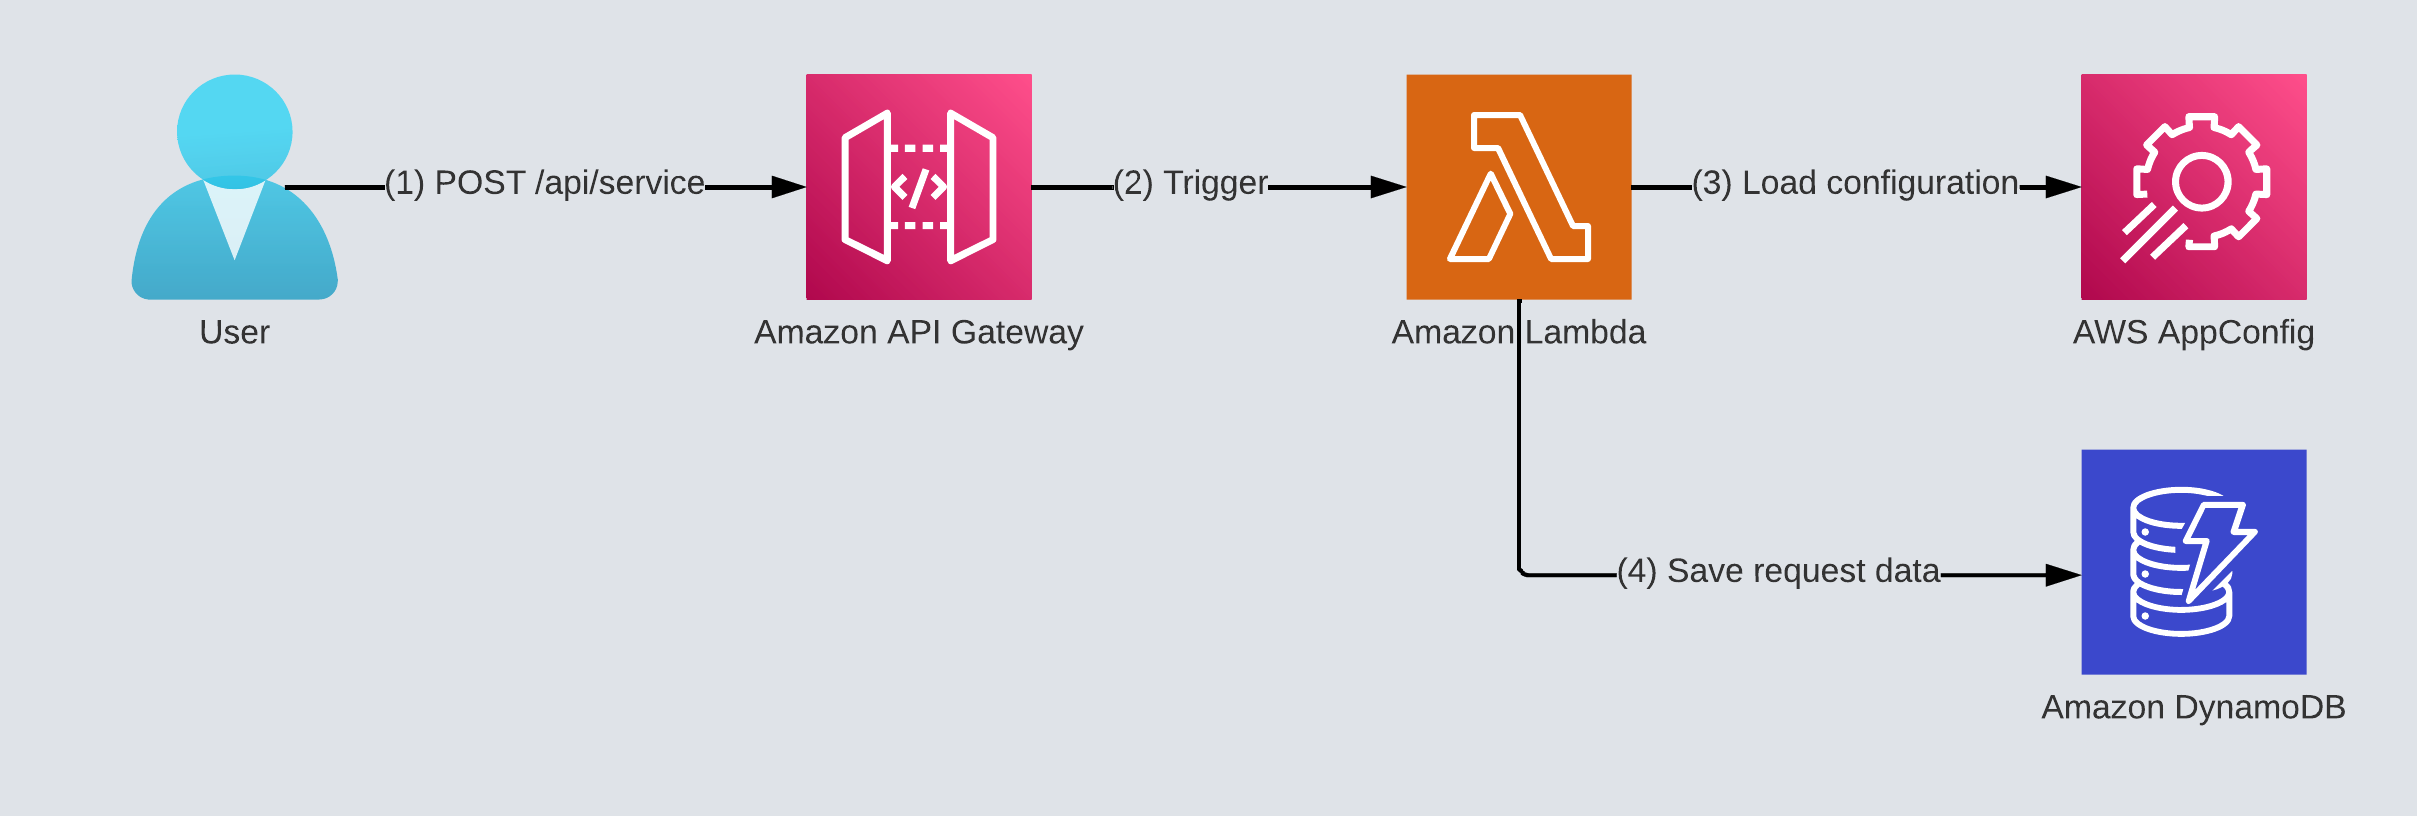
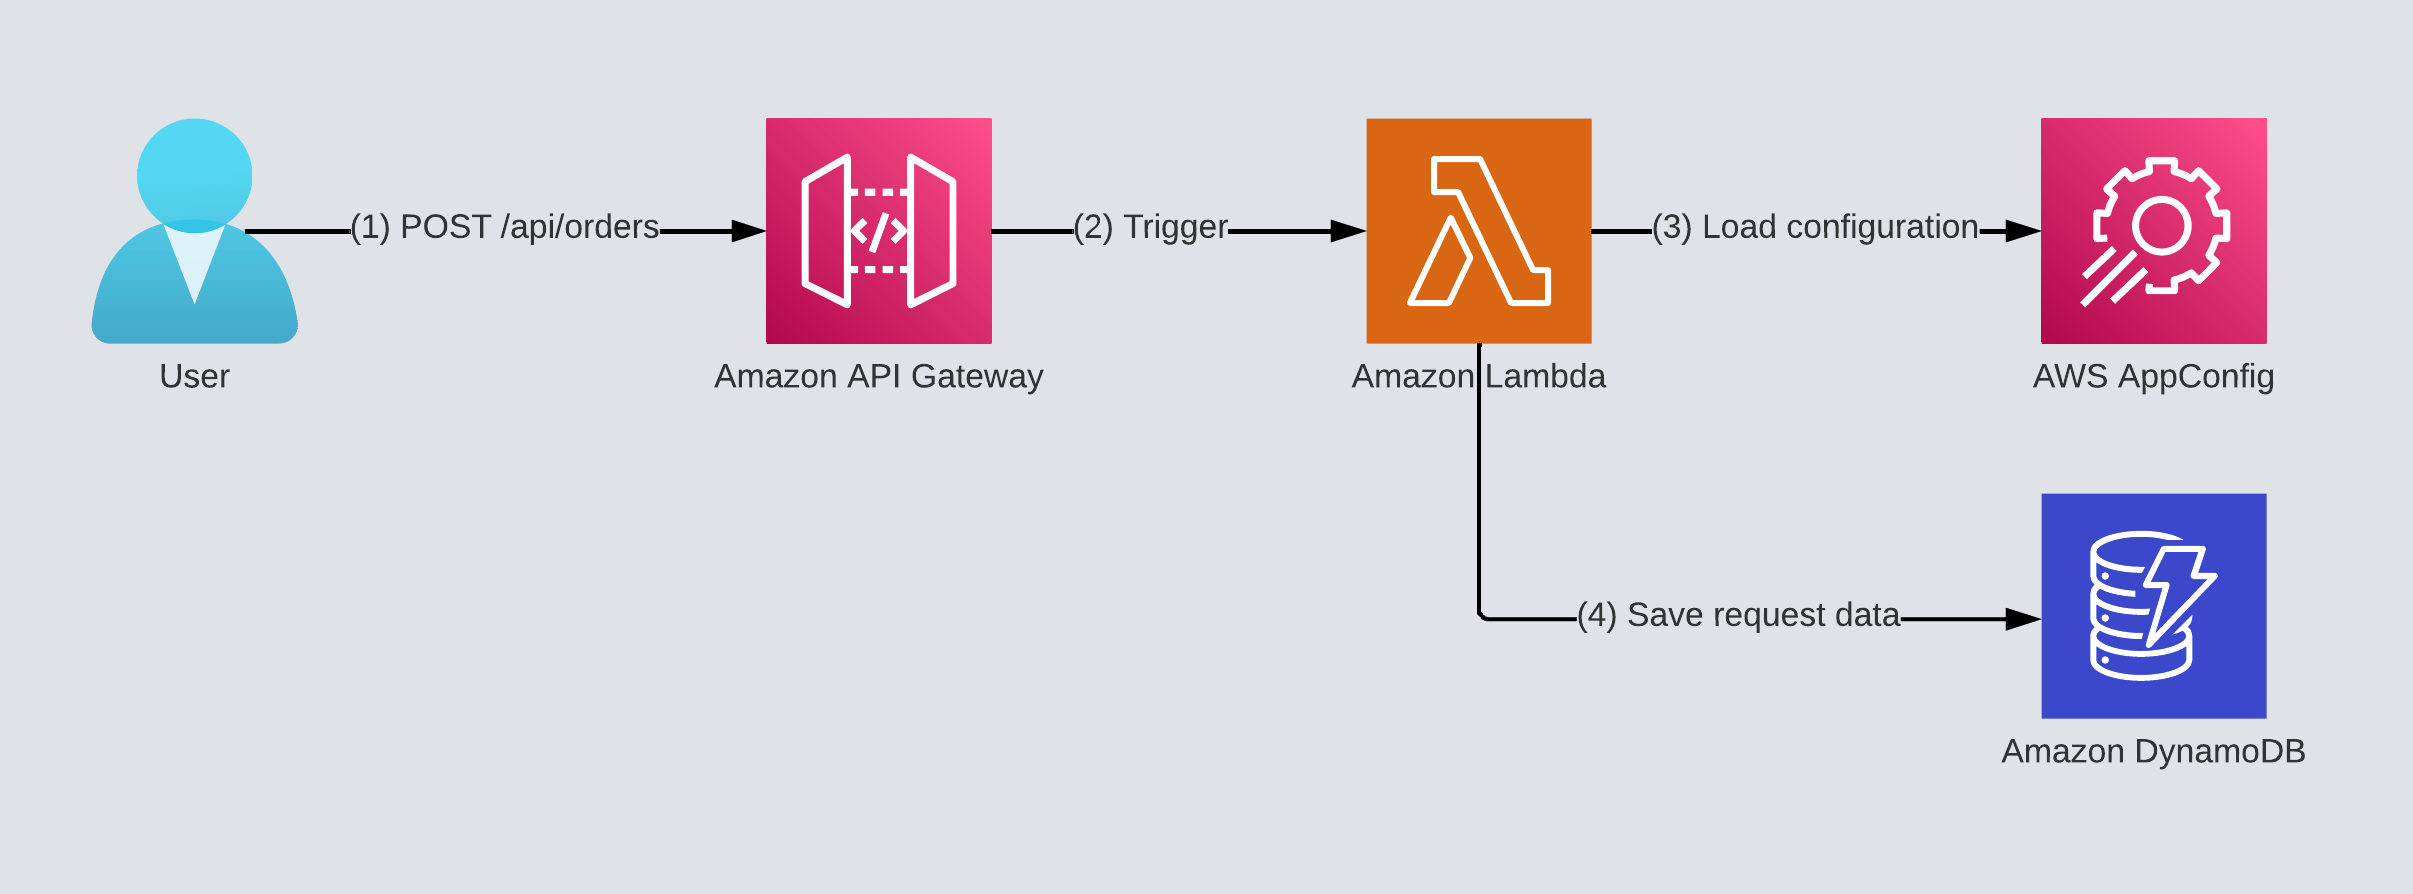
misc cahgnes

Changed region(s): [[0.0311, 0.0919, 0.9635, 0.4596], [0.6216, 0.5515, 0.9635, 0.8885]]

diff --git a/tests/integration/test_create_order.py b/tests/integration/test_create_order.py
@@ -15,7 +15,7 @@ from cdk.my_service.service_stack.constants import (
     SERVICE_NAME,
     TABLE_NAME_OUTPUT,
 )
-from service.handlers.my_handler import my_handler
+from service.handlers.create_order import create_order
 from service.handlers.schemas.input import Input
 from tests.utils import generate_api_gw_event, generate_context, get_stack_output
 
@@ -71,7 +71,7 @@ def test_handler_200_ok(mocker):
     mock_dynamic_configuration(mocker, MOCKED_SCHEMA)
     customer_name = 'RanTheBuilder'
     body = Input(customer_name=customer_name, order_item_count=5, tier='premium')
-    response = my_handler(generate_api_gw_event(body.dict()), generate_context())
+    response = create_order(generate_api_gw_event(body.dict()), generate_context())
     assert response['statusCode'] == HTTPStatus.OK
     body_dict = json.loads(response['body'])
     assert body_dict['order_id']
@@ -87,13 +87,13 @@ def test_internal_server_error(mocker):
     db_mock = mocker.patch('service.logic.handle_create_request._get_db_handler')
     db_mock.side_effect = db_mock_function
     body = Input(customer_name='RanTheBuilder', order_item_count=5, tier='premium')
-    response = my_handler(generate_api_gw_event(body.dict()), generate_context())
+    response = create_order(generate_api_gw_event(body.dict()), generate_context())
     assert response['statusCode'] == HTTPStatus.INTERNAL_SERVER_ERROR
 
 
 def test_handler_bad_request(mocker):
     mock_dynamic_configuration(mocker, MOCKED_SCHEMA)
-    response = my_handler(generate_api_gw_event({'order_item_count': 5}), generate_context())
+    response = create_order(generate_api_gw_event({'order_item_count': 5}), generate_context())
     assert response['statusCode'] == HTTPStatus.BAD_REQUEST
     body_dict = json.loads(response['body'])
     assert body_dict == {}
@@ -101,7 +101,7 @@ def test_handler_bad_request(mocker):
 
 def test_handler_failed_appconfig_fetch(mocker):
     mock_exception_dynamic_configuration(mocker)
-    response = my_handler(generate_api_gw_event({'order_item_count': 5}), generate_context())
+    response = create_order(generate_api_gw_event({'order_item_count': 5}), generate_context())
     assert response['statusCode'] == HTTPStatus.INTERNAL_SERVER_ERROR
     body_dict = json.loads(response['body'])
     assert body_dict == {}

diff --git a/service/handlers/create_order.py b/service/handlers/create_order.py
@@ -22,9 +22,8 @@ from service.schemas.output import Output
 @init_environment_variables(model=MyHandlerEnvVars)
 @metrics.log_metrics
 @tracer.capture_lambda_handler(capture_response=False)
-def my_handler(event: Dict[str, Any], context: LambdaContext) -> Dict[str, Any]:
+def create_order(event: Dict[str, Any], context: LambdaContext) -> Dict[str, Any]:
     logger.set_correlation_id(context.aws_request_id)
-    logger.info('my_handler is called, calling inner_function_example')
 
     env_vars: MyHandlerEnvVars = get_environment_variables(model=MyHandlerEnvVars)
     logger.debug('environment variables', extra=env_vars.dict())
@@ -39,7 +38,7 @@ def my_handler(event: Dict[str, Any], context: LambdaContext) -> Dict[str, Any]:
     try:
         # we want to extract and parse the HTTP body from the api gw envelope
         input: Input = parse(event=event, model=Input, envelope=ApiGatewayEnvelope)
-        logger.info('got create request', extra={'order_item_count': input.order_item_count})
+        logger.info('got create order request', extra={'order_item_count': input.order_item_count})
     except (ValidationError, TypeError) as exc:
         logger.error('event failed input validation', extra={'error': str(exc)})
         return build_response(http_status=HTTPStatus.BAD_REQUEST, body={})
@@ -51,4 +50,5 @@ def my_handler(event: Dict[str, Any], context: LambdaContext) -> Dict[str, Any]:
     except InternalServerException:
         return build_response(http_status=HTTPStatus.INTERNAL_SERVER_ERROR, body={})
 
+    logger.info('finished handling create order request')
     return build_response(http_status=HTTPStatus.OK, body=response.dict())

diff --git a/cdk/my_service/service_stack/service_construct.py b/cdk/my_service/service_stack/service_construct.py
@@ -39,7 +39,7 @@ class ApiConstruct(Construct):
             self,
             'service-rest-api',
             rest_api_name='Service Rest API',
-            description='This service handles /api/service requests',
+            description='This service handles /api/orders requests',
             deploy_options=aws_apigateway.StageOptions(throttling_rate_limit=2, throttling_burst_limit=10),
         )
 
@@ -84,7 +84,7 @@ class ApiConstruct(Construct):
             'ServicePost',
             runtime=_lambda.Runtime.PYTHON_3_9,
             code=_lambda.Code.from_asset(constants.BUILD_FOLDER),
-            handler='service.handlers.my_handler.my_handler',
+            handler='service.handlers.create_order.create_order',
             environment={
                 constants.POWERTOOLS_SERVICE_NAME: constants.SERVICE_NAME,  # for logger, tracer and metrics
                 constants.POWER_TOOLS_LOG_LEVEL: 'DEBUG',  # for logger
@@ -105,5 +105,5 @@ class ApiConstruct(Construct):
             log_retention=aws_logs.RetentionDays.ONE_DAY,
         )
 
-        # POST /api/service/
+        # POST /api/orders/
         api_name.add_method(http_method='POST', integration=aws_apigateway.LambdaIntegration(handler=lambda_function))

diff --git a/docs/examples/best_practices/dynamic_configuration/lambda_cdk.py b/docs/examples/best_practices/dynamic_configuration/lambda_cdk.py
@@ -28,7 +28,7 @@ def _build_lambda_function(self, api_name: aws_apigateway.Resource, role: iam.Ro
         'ServicePost',
         runtime=_lambda.Runtime.PYTHON_3_8,
         code=_lambda.Code.from_asset(constants.BUILD_FOLDER),
-        handler='service.handlers.my_handler.my_handler',
+        handler='service.handlers.create_order.create_order',
         environment={
             constants.POWERTOOLS_SERVICE_NAME: constants.SERVICE_NAME,  # for logger, tracer and metrics
             constants.POWER_TOOLS_LOG_LEVEL: 'DEBUG',  # for logger

diff --git a/cdk/my_service/service_stack/constants.py b/cdk/my_service/service_stack/constants.py
@@ -4,12 +4,12 @@ SERVICE_ROLE = 'ServiceRole'
 TABLE_NAME = 'orders'
 TABLE_NAME_OUTPUT = 'DbOutput'
 APIGATEWAY = 'Apigateway'
-GW_RESOURCE = 'service'
+GW_RESOURCE = 'orders'
 LAMBDA_LAYER_NAME = 'common'
 API_HANDLER_LAMBDA_MEMORY_SIZE = 128  # MB
 API_HANDLER_LAMBDA_TIMEOUT = 10  # seconds
 POWERTOOLS_SERVICE_NAME = 'POWERTOOLS_SERVICE_NAME'
-SERVICE_NAME = 'Example'
+SERVICE_NAME = 'Orders'
 METRICS_NAMESPACE = 'my_product_kpi'
 POWERTOOLS_TRACE_DISABLED = 'POWERTOOLS_TRACE_DISABLED'
 POWER_TOOLS_LOG_LEVEL = 'LOG_LEVEL'

diff --git a/README.md b/README.md
@@ -17,6 +17,7 @@ This project can serve as a template for new Serverless services - CDK deploymen
 **[📜Documentation](https://ran-isenberg.github.io/aws-lambda-handler-cookbook/)** | **[Blogs website](https://www.ranthebuilder.cloud)**
 > **Contact details | ran.isenberg@ranthebuilder.cloud**
 
+
 ## **The Problem**
 
 Starting a Serverless service can be overwhelming. You need to figure out many questions and challenges that have nothing to do with your business domain:
@@ -30,27 +31,29 @@ Starting a Serverless service can be overwhelming. You need to figure out many q
 
 ## **The Solution**
 
-This project aims to reduce cognitive load and answer these questions for you by combining best practices for AWS Lambda, Serverless CI/CD, and AWS CDK in one template project.
-### **Features**
+This project aims to reduce cognitive load and answer these questions for you by providing a skeleton Python Serverless service template
+
+that implements best practices for AWS Lambda, Serverless CI/CD, and AWS CDK in one template project.
+
+### Serverless Service - The Order service
 
 - This project provides a working orders service where customers can create orders of items.
 
-- The project deploys an API GW with an AWS Lambda integration under the path POST /api/service/ and stores data in a DynamoDB table.
+- The project deploys an API GW with an AWS Lambda integration under the path POST /api/orders/ and stores data in a DynamoDB table.
 
+### **Features**
+
+- Python Serverless service with a recommended file structure.
+- CDK infrastructure with infrastructure tests and security tests.
+- CI/CD pipelines based on Github actions that deploys to AWS.
+- Unit/integration and E2E tests.
 - The AWS Lambda handler embodies Serverless best practices and has all the bells and whistles for a proper production ready handler.
 
-- CI/CD pipelines based on Github actions that deploys to AWS.
-
-- Unit/integration and E2E tests.
-
-- CDK infrastructure with infrastructure tests and security tests.
-
-
-The GitHub template project can be found at [https://github.com/ran-isenberg/aws-lambda-handler-cookbook](https://github.com/ran-isenberg/aws-lambda-handler-cookbook){:target="_blank" rel="noopener"}.
+The GitHub template project can be found at [https://github.com/ran-isenberg/aws-lambda-handler-cookbook](https://github.com/ran-isenberg/aws-lambda-handler-cookbook).
 
 
 ## CDK Deployment
-The CDK code create an API GW with a path of /api/service which triggers the lambda on 'POST' requests.
+The CDK code create an API GW with a path of /api/orders which triggers the lambda on 'POST' requests.
 
 The AWS Lambda handler uses a Lambda layer optimization which takes all the packages under the [packages] section in the Pipfile and downloads them in via a Docker instance.
 
@@ -63,14 +66,14 @@ Each utility is implemented when a new blog post is published about that utility
 
 The utilities cover multiple aspect of a production-ready service, including:
 
-- [Logging](https://www.ranthebuilder.cloud/post/aws-lambda-cookbook-elevate-your-handler-s-code-part-1-logging){:target="_blank" rel="noopener"}
-- [Observability: Monitoring and Tracing](https://www.ranthebuilder.cloud/post/aws-lambda-cookbook-elevate-your-handler-s-code-part-2-observability){:target="_blank" rel="noopener"}
-- [Observability: Business KPIs Metrics](https://www.ranthebuilder.cloud/post/aws-lambda-cookbook-elevate-your-handler-s-code-part-3-business-domain-observability){:target="_blank" rel="noopener"}
-- [Environment Variables](https://www.ranthebuilder.cloud/post/aws-lambda-cookbook-environment-variables){:target="_blank" rel="noopener"}
-- [Input Validation](https://www.ranthebuilder.cloud/post/aws-lambda-cookbook-elevate-your-handler-s-code-part-5-input-validation){:target="_blank" rel="noopener"}
-- [Dynamic Configuration & feature flags](https://www.ranthebuilder.cloud/post/aws-lambda-cookbook-part-6-feature-flags-configuration-best-practices){:target="_blank" rel="noopener"}
-- [Start Your AWS Serverless Service With Two Clicks](https://www.ranthebuilder.cloud/post/aws-lambda-cookbook-part-7-how-to-use-the-aws-lambda-cookbook-github-template-project){:target="_blank" rel="noopener"}
-- [CDK Best practices](https://github.com/ran-isenberg/aws-lambda-handler-cookbook){:target="_blank" rel="noopener"}
+- [Logging](https://www.ranthebuilder.cloud/post/aws-lambda-cookbook-elevate-your-handler-s-code-part-1-logging)
+- [Observability: Monitoring and Tracing](https://www.ranthebuilder.cloud/post/aws-lambda-cookbook-elevate-your-handler-s-code-part-2-observability)
+- [Observability: Business KPIs Metrics](https://www.ranthebuilder.cloud/post/aws-lambda-cookbook-elevate-your-handler-s-code-part-3-business-domain-observability)
+- [Environment Variables](https://www.ranthebuilder.cloud/post/aws-lambda-cookbook-environment-variables)
+- [Input Validation](https://www.ranthebuilder.cloud/post/aws-lambda-cookbook-elevate-your-handler-s-code-part-5-input-validation)
+- [Dynamic Configuration & feature flags](https://www.ranthebuilder.cloud/post/aws-lambda-cookbook-part-6-feature-flags-configuration-best-practices)
+- [Start Your AWS Serverless Service With Two Clicks](https://www.ranthebuilder.cloud/post/aws-lambda-cookbook-part-7-how-to-use-the-aws-lambda-cookbook-github-template-project)
+- [CDK Best practices](https://github.com/ran-isenberg/aws-lambda-handler-cookbook)
 
 
 I've written 3 of the mentioned utilities (parser, feature flags and environment variables) and donated two of them, the [parser](https://awslabs.github.io/aws-lambda-powertools-python/latest/utilities/parser/) and [feature flags](https://awslabs.github.io/aws-lambda-powertools-python/latest/utilities/feature_flags/) to [AWS Lambda Powertools](https://awslabs.github.io/aws-lambda-powertools-python/latest/).

diff --git a/docs/index.md b/docs/index.md
@@ -18,38 +18,27 @@ Starting a Serverless service can be overwhelming. You need to figure out many q
 
 ## **The Solution**
 
-This project aims to reduce cognitive load and answer these questions for you by combining best practices
+This project aims to reduce cognitive load and answer these questions for you by providing a skeleton Python Serverless service template
 
-for AWS Lambda, Serverless CI/CD, and AWS CDK in one template project.
+that implements best practices for AWS Lambda, Serverless CI/CD, and AWS CDK in one template project.
 
-### **Features**
+### Serverless Service - The Order service
+
+<img alt="alt_text" src="../media/design.png" />
 
 - This project provides a working orders service where customers can create orders of items.
 
-- The project deploys an API GW with an AWS Lambda integration under the path POST /api/service/ and stores data in a DynamoDB table.
+- The project deploys an API GW with an AWS Lambda integration under the path POST /api/orders/ and stores data in a DynamoDB table.
 
+### **Features**
+
+- Python Serverless service with a recommended file structure.
+- CDK infrastructure with infrastructure tests and security tests.
+- CI/CD pipelines based on Github actions that deploys to AWS.
+- Unit/integration and E2E tests.
 - The AWS Lambda handler embodies Serverless best practices and has all the bells and whistles for a proper production ready handler.
 
-- CI/CD pipelines based on Github actions that deploys to AWS.
-
-- Unit/integration and E2E tests.
-
-- CDK infrastructure with infrastructure tests and security tests.
-
 The GitHub template project can be found at [https://github.com/ran-isenberg/aws-lambda-handler-cookbook](https://github.com/ran-isenberg/aws-lambda-handler-cookbook){:target="_blank" rel="noopener"}.
-
-## **The Blog Series**
-
-The template is based on my AWS Lambda handler cookbook blog series that I published at [ranthebuilder.cloud](https://www.ranthebuilder.cloud).
-
-- [Logging](https://www.ranthebuilder.cloud/post/aws-lambda-cookbook-elevate-your-handler-s-code-part-1-logging){:target="_blank" rel="noopener"}
-- [Observability: Monitoring and Tracing](https://www.ranthebuilder.cloud/post/aws-lambda-cookbook-elevate-your-handler-s-code-part-2-observability){:target="_blank" rel="noopener"}
-- [Observability: Business KPIs Metrics](https://www.ranthebuilder.cloud/post/aws-lambda-cookbook-elevate-your-handler-s-code-part-3-business-domain-observability){:target="_blank" rel="noopener"}
-- [Environment Variables](https://www.ranthebuilder.cloud/post/aws-lambda-cookbook-environment-variables){:target="_blank" rel="noopener"}
-- [Input Validation](https://www.ranthebuilder.cloud/post/aws-lambda-cookbook-elevate-your-handler-s-code-part-5-input-validation){:target="_blank" rel="noopener"}
-- [Dynamic Configuration & feature flags](https://www.ranthebuilder.cloud/post/aws-lambda-cookbook-part-6-feature-flags-configuration-best-practices){:target="_blank" rel="noopener"}
-- [Start Your AWS Serverless Service With Two Clicks](https://www.ranthebuilder.cloud/post/aws-lambda-cookbook-part-7-how-to-use-the-aws-lambda-cookbook-github-template-project){:target="_blank" rel="noopener"}
-- [CDK Best practices](https://github.com/ran-isenberg/aws-lambda-handler-cookbook){:target="_blank" rel="noopener"}
 
 ## **Serverless Best Practices**
 
@@ -67,6 +56,19 @@ The utilities cover multiple aspects of a production-ready service, including:
 - [**Dynamic configuration & features flags**](best_practices/dynamic_configuration.md)
 
 While the code examples are written in Python, the principles are valid to any supported AWS Lambda handler programming language.
+
+## **The Blog Series**
+
+The template is based on my AWS Lambda handler cookbook blog series that I published at [ranthebuilder.cloud](https://www.ranthebuilder.cloud).
+
+- [Logging](https://www.ranthebuilder.cloud/post/aws-lambda-cookbook-elevate-your-handler-s-code-part-1-logging){:target="_blank" rel="noopener"}
+- [Observability: Monitoring and Tracing](https://www.ranthebuilder.cloud/post/aws-lambda-cookbook-elevate-your-handler-s-code-part-2-observability){:target="_blank" rel="noopener"}
+- [Observability: Business KPIs Metrics](https://www.ranthebuilder.cloud/post/aws-lambda-cookbook-elevate-your-handler-s-code-part-3-business-domain-observability){:target="_blank" rel="noopener"}
+- [Environment Variables](https://www.ranthebuilder.cloud/post/aws-lambda-cookbook-environment-variables){:target="_blank" rel="noopener"}
+- [Input Validation](https://www.ranthebuilder.cloud/post/aws-lambda-cookbook-elevate-your-handler-s-code-part-5-input-validation){:target="_blank" rel="noopener"}
+- [Dynamic Configuration & feature flags](https://www.ranthebuilder.cloud/post/aws-lambda-cookbook-part-6-feature-flags-configuration-best-practices){:target="_blank" rel="noopener"}
+- [Start Your AWS Serverless Service With Two Clicks](https://www.ranthebuilder.cloud/post/aws-lambda-cookbook-part-7-how-to-use-the-aws-lambda-cookbook-github-template-project){:target="_blank" rel="noopener"}
+- [CDK Best practices](https://github.com/ran-isenberg/aws-lambda-handler-cookbook){:target="_blank" rel="noopener"}
 
 ## **License**
 

diff --git a/docs/cdk.md b/docs/cdk.md
@@ -14,7 +14,7 @@ description: AWS Lambda Cookbook CDK Project
 
 All CDK project files can be found under the CDK folder.
 
-The CDK code create an API GW with a path of /api/service which triggers the lambda on 'POST' requests.
+The CDK code create an API GW with a path of /api/orders which triggers the lambda on 'POST' requests.
 
 The AWS Lambda handler uses a Lambda layer optimization which takes all the packages under the [packages] section in the Pipfile and downloads them in via a Docker instance.
 
@@ -40,7 +40,7 @@ All ASW Lambda function configurations are saved as constants at the `cdk.my_ser
     - **Lambda Layer** - deployment optimization meant to be used with multiple handlers under the same API GW, sharing code logic and dependencies. You can read more about it in Yan - Cui's [blog](https://medium.com/theburningmonk-com/lambda-layer-not-a-package-manager-but-a-deployment-optimization-85ddcae40a96){:target="_blank" rel="noopener"}
     - **Lambda Function** - The Lambda handler function itself. Handler code is taken from the service `folder`.
     - **Lambda Role** - The role of the Lambda function.
-    - **API GW with Lambda Integration** - API GW with a Lambda integration POST /api/service that triggers the Lambda function.
+    - **API GW with Lambda Integration** - API GW with a Lambda integration POST /api/orders that triggers the Lambda function.
     - **AWS DynamoDB table** - stores request data
 
 ### **CDK Tests**
